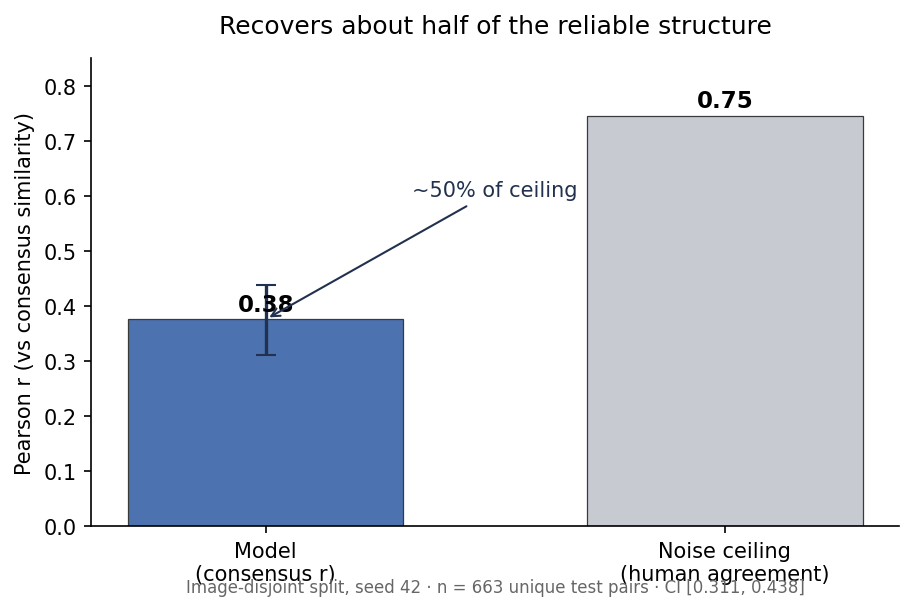
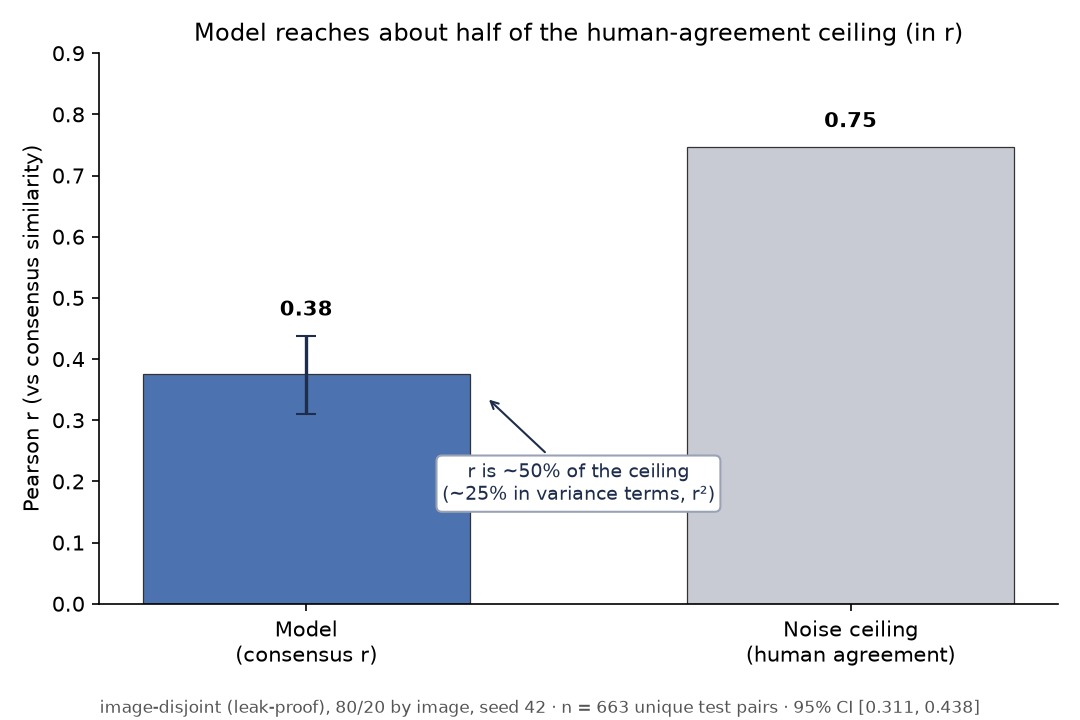
Fix headline figure, clarify "half the ceiling", ship executed demo notebook
- Regenerate results/headline.png from final_metrics.json via a new
  make_headline_figure.py: label no longer struck through by the error
  bar, caption no longer overlaps the axis labels, title no longer
  overclaims (closes #1)
- State that "about half" is in correlation terms (r^2: ~0.14 of ~0.56,
  about a quarter) in the README and notebook text; fix 0.51 -> 0.50 to
  match final_metrics.json
- Notebook: add a setup cell so it runs from the repo root, from
  notebooks/, or straight from Colab; cap demo-mode FIT_CAP at 10k rows
  (demo previously fit on all 36,667 rows and ran out of memory on a
  laptop); commit with executed demo-mode outputs
- README: Open in Colab badge, note that saved outputs are demo-mode

diff --git a/make_headline_figure.py b/make_headline_figure.py
@@ -1,0 +1,49 @@
+"""Regenerate results/headline.png from results/final_metrics.json.
+
+    python make_headline_figure.py
+"""
+import json
+import pathlib
+
+import matplotlib
+matplotlib.use("Agg")
+import matplotlib.pyplot as plt
+
+HERE = pathlib.Path(__file__).parent
+m = json.loads((HERE / "results" / "final_metrics.json").read_text(encoding="utf-8"))
+
+r, (lo, hi), ceil = m["consensus_r"], m["consensus_r_ci95"], m["noise_ceiling"]
+pct_r = 100 * r / ceil              # ratio of correlations
+pct_r2 = 100 * r**2 / ceil**2       # ratio of variance explained
+
+fig, ax = plt.subplots(figsize=(7.2, 4.8), dpi=150)
+ax.bar(0, r, width=0.6, color="#4C72B0", edgecolor="#333", linewidth=0.6)
+ax.bar(1, ceil, width=0.6, color="#C8CBD3", edgecolor="#333", linewidth=0.6)
+ax.errorbar(0, r, yerr=[[r - lo], [hi - r]], color="#1f2d4d", capsize=5, linewidth=1.6)
+
+# value labels sit above the error bar / bar so nothing is struck through
+ax.text(0, hi + 0.025, f"{r:.2f}", ha="center", va="bottom", fontweight="bold")
+ax.text(1, ceil + 0.025, f"{ceil:.2f}", ha="center", va="bottom", fontweight="bold")
+
+ax.annotate(
+    f"r is ~{pct_r:.0f}% of the ceiling\n(~{pct_r2:.0f}% in variance terms, r²)",
+    xy=(0.33, r * 0.9), xytext=(0.5, 0.17), ha="center", fontsize=9, color="#1f2d4d",
+    arrowprops=dict(arrowstyle="->", color="#1f2d4d"),
+    bbox=dict(boxstyle="round,pad=0.3", fc="white", ec="#9aa3b5"),
+)
+
+ax.set_xticks([0, 1])
+ax.set_xticklabels(["Model\n(consensus r)", "Noise ceiling\n(human agreement)"])
+ax.set_ylabel("Pearson r (vs consensus similarity)")
+ax.set_ylim(0, 0.9)
+ax.set_title("Model reaches about half of the human-agreement ceiling (in r)", fontsize=11.5)
+ax.spines[["top", "right"]].set_visible(False)
+
+fig.text(
+    0.5, 0.01,
+    f"{m['split']} · n = {m['n_unique_test_pairs']} unique test pairs · 95% CI [{lo:.3f}, {hi:.3f}]",
+    ha="center", fontsize=8, color="#555",
+)
+fig.tight_layout(rect=(0, 0.04, 1, 1))
+fig.savefig(HERE / "results" / "headline.png")
+print(f"wrote results/headline.png  (r={r}, ceiling={ceil}, {pct_r:.0f}% of r, {pct_r2:.0f}% of r^2)")

diff --git a/README.md b/README.md
@@ -4,6 +4,8 @@ Predicting **human similarity judgments** on images from deep vision-model
 features (CLIP + DINO), and measuring how much of human similarity is
 actually recoverable from perception alone.
 
+[![Open in Colab](https://colab.research.google.com/assets/colab-badge.svg)](https://colab.research.google.com/github/sschabacker/visual-similarity-pipeline/blob/main/notebooks/01_similarity_pipeline.ipynb)
+
 ![Headline result](results/headline.png)
 
 ## Headline result
@@ -11,7 +13,8 @@ actually recoverable from perception alone.
 On a **leak-free, image-disjoint** train/test split, the model predicts
 **consensus human similarity at r ≈ 0.38** (95% CI [0.31, 0.44]) against a
 **split-half noise ceiling of 0.75**; a ceiling-normalized score of about
-**0.51**, or roughly half of the achievable ceiling.
+**0.50**, or roughly half of the achievable ceiling. ("Half" is a statement about
+correlations. In variance terms, r² ≈ 0.14 of an achievable ≈ 0.56, about a quarter.)
 
 An earlier version of this pipeline split by **pair** rather than by image,
 letting the same image appear on both sides of the train/test boundary, and
@@ -27,7 +30,7 @@ interpretable: 0.38 of an achievable 0.75.
 
 > The interesting part isn't the 0.38, it's the gap. Human raters agree
 > strongly (ceiling 0.75), and frozen perceptual features capture about half
-> of that agreement. The other half, not recoverable from CLIP/DINO, is where
+> of that agreement, in correlation terms. The other half, not recoverable from CLIP/DINO, is where
 > categorical and semantic structure likely lives.
 
 ## Why this question
@@ -74,6 +77,7 @@ visual-similarity-pipeline/
 ├── CITATION.cff
 ├── requirements.txt
 ├── similarity_model.py         # reusable core
+├── make_headline_figure.py     # regenerates results/headline.png from results/final_metrics.json
 ├── make_sample_bundle.py       # builds the demo slice from the full data
 ├── notebooks/
 │   └── 01_similarity_pipeline.ipynb   # canonical trunk (runs the whole story)
@@ -91,7 +95,10 @@ pip install -r requirements.txt
 
 **Demo mode (default):** the canonical notebook runs end to end on the small
 bundle in `sample_data/`, so you can see the full pipeline execute without
-the large dataset. Demo numbers are illustrative, not the headline result.
+the large dataset. Demo numbers are illustrative, not the headline result: the
+outputs saved in the notebook come from a demo run (127 test pairs with repeats),
+so they differ from the headline above. Demo mode needs roughly 3 GB of free RAM.
+The **Open in Colab** badge above runs it with no local setup.
 
 **Full data:** set `DEMO_MODE = False` and point the paths at the full
 feature and pair files (hosted separately; see below). This reproduces the
